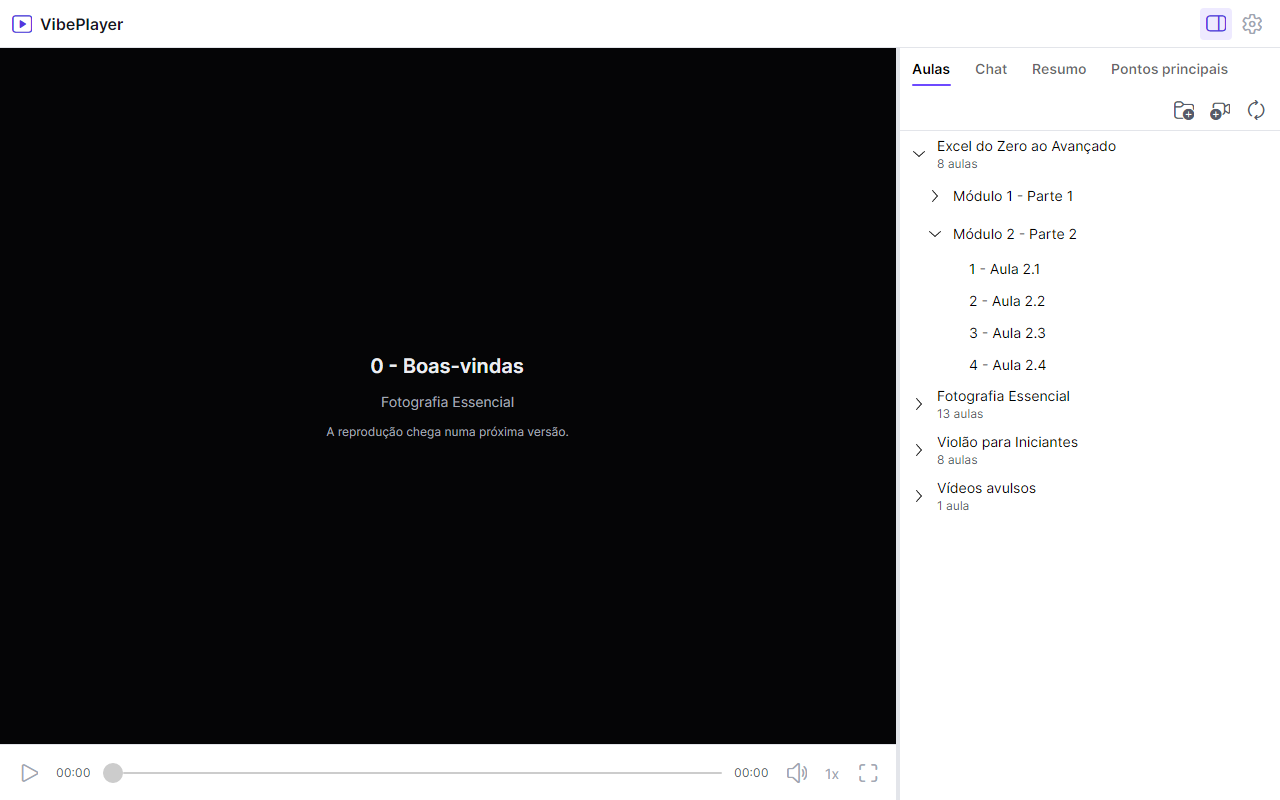
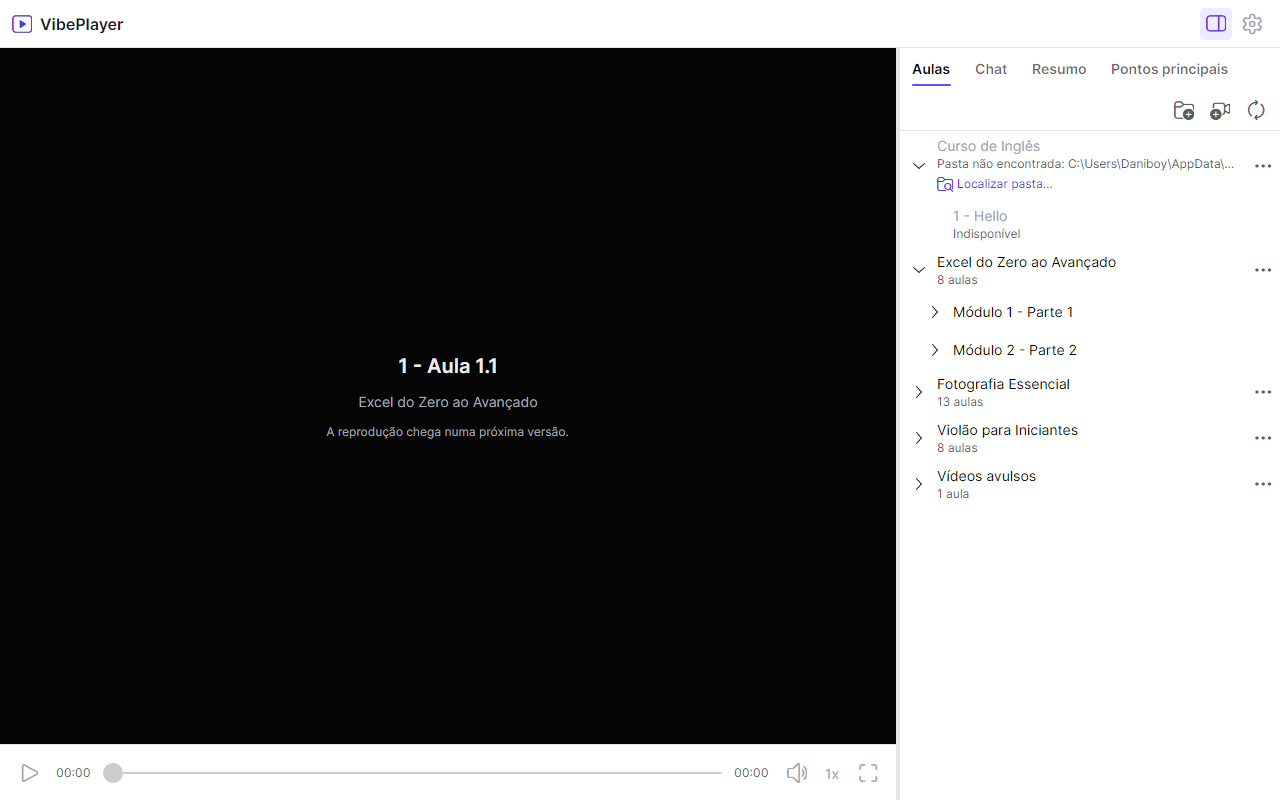
fix(biblioteca): ações do curso em toda a linha e mais à vista
- botão de ações (⋯) sempre visível nos itens que têm ações
- clique direito abre o menu em qualquer ponto da linha, não só sobre o texto
- "Localizar pasta…" aparece direto na linha do curso cuja pasta sumiu
- árvore sem rolagem horizontal: nomes longos são cortados em vez de esconder o botão

Changed region(s): [[0.7188, 0.1562, 0.9688, 0.625], [0.2812, 0.5, 0.4062, 0.5312], [0.2812, 0.4375, 0.4062, 0.4688]]

diff --git a/tests/VibePlayer.E2ETests/LibraryViewTests.cs b/tests/VibePlayer.E2ETests/LibraryViewTests.cs
@@ -166,6 +166,77 @@ public sealed class LibraryViewTests : IDisposable
         window.Close();
     }
 
+    [AvaloniaFact]
+    public async Task CliqueDireito_EmQualquerPontoDaLinha_AbreAcoesDoCurso()
+    {
+        _sample.AddVideo("Curso/M/a.mp4");
+        var window = await OpenWithFolderAsync("Curso");
+        var view = window.GetVisualDescendants().OfType<LibraryView>().Single();
+        var row = window.GetVisualDescendants().OfType<TreeViewItem>().First();
+
+        // Pontos sem texto: logo depois do recuo (antes do título) e perto da borda direita.
+        foreach (var x in new[] { 4.0, row.Bounds.Width - 48 })
+        {
+            RightClick(window, row, new Point(x, 12));
+
+            var menu = view.OpenActionsMenu.ShouldNotBeNull($"Clique direito em x={x} não abriu o menu");
+            menu.Items.OfType<MenuItem>().Select(i => i.Header).ShouldBe([Strings.Library_Remove]);
+            menu.Close();
+        }
+
+        window.Close();
+    }
+
+    [AvaloniaFact]
+    public async Task BotaoDeAcoes_AbreMenuEItemSemAcoesNaoAbreODoCurso()
+    {
+        _sample.AddVideo("Curso/M/a.mp4");
+        var window = await OpenWithFolderAsync("Curso");
+        var view = window.GetVisualDescendants().OfType<LibraryView>().Single();
+        var course = window.GetVisualDescendants().OfType<TreeViewItem>().First();
+
+        var actions = course.GetVisualDescendants().OfType<Button>().First(b => b.Classes.Contains("rowActions"));
+        actions.IsEffectivelyVisible.ShouldBeTrue();
+        window.Click(actions);
+        view.OpenActionsMenu.ShouldNotBeNull().Items.OfType<MenuItem>().Select(i => i.Header).ShouldBe([Strings.Library_Remove]);
+        view.OpenActionsMenu!.Close();
+
+        // Módulo não tem ações: o clique direito nele não pode abrir o menu do curso.
+        course.IsExpanded = true;
+        WindowTestExtensions.Settle();
+        var module = course.GetVisualDescendants().OfType<TreeViewItem>().First();
+        RightClick(window, module, new Point(module.Bounds.Width - 48, 12));
+        view.OpenActionsMenu.ShouldBeNull();
+        window.Close();
+    }
+
+    [AvaloniaFact]
+    public async Task PastaIndisponivel_MostraLocalizarPastaNaLinha()
+    {
+        _sample.AddVideo("HD/Curso/a.mp4");
+        var window = await OpenWithFolderAsync("HD/Curso");
+        Directory.Delete(_sample.PathOf("HD"), recursive: true);
+        await window.ViewModel().Library.RefreshCommand.ExecuteAsync(null);
+        WindowTestExtensions.Settle();
+
+        var link = window.GetVisualDescendants().OfType<Button>().Single(b => b.Classes.Contains("link"));
+        link.IsEffectivelyVisible.ShouldBeTrue();
+        window.ShowsText(Strings.Library_Locate).ShouldBeTrue();
+
+        _picker.Folders.Enqueue(null);
+        window.Click(link);
+        await WaitUntilAsync(() => _picker.Folders.Count == 0);
+        window.Close();
+    }
+
+    private static void RightClick(MainWindow window, Control target, Point point)
+    {
+        var position = target.TranslatePoint(point, window)!.Value;
+        window.MouseDown(position, MouseButton.Right);
+        window.MouseUp(position, MouseButton.Right);
+        WindowTestExtensions.Settle();
+    }
+
     private async Task<MainWindow> OpenAsync()
     {
         _services = _data.BuildServices(overrides =>

diff --git a/src/VibePlayer.App/Views/Library/LibraryView.axaml.cs b/src/VibePlayer.App/Views/Library/LibraryView.axaml.cs
@@ -1,11 +1,86 @@
+using Avalonia;
 using Avalonia.Controls;
+using Avalonia.Input;
+using Avalonia.Interactivity;
+using Avalonia.VisualTree;
+using FluentIcons.Avalonia;
+using FluentIcons.Common;
+using VibePlayer.App.Resources;
+using VibePlayer.App.ViewModels;
 
 namespace VibePlayer.App.Views.Library;
 
 public partial class LibraryView : UserControl
 {
+    private ContextMenu? _actionsMenu;
+
     public LibraryView()
     {
         InitializeComponent();
+        Tree.ContextRequested += OnTreeContextRequested;
     }
+
+    /// <summary>Menu de ações aberto agora, se houver. Exposto para os testes E2E conferirem o conteúdo.</summary>
+    public ContextMenu? OpenActionsMenu => _actionsMenu is { IsOpen: true } ? _actionsMenu : null;
+
+    /// <remarks>
+    /// O menu é tratado no TreeView, e não preso ao conteúdo de cada item, por dois motivos:
+    /// <list type="bullet">
+    /// <item>o clique direito vale para a linha inteira do item (recuo, seta de expandir e o espaço
+    /// até a borda), não só para onde há texto;</item>
+    /// <item>o evento é sempre marcado como tratado: clicar numa aula sem ações não pode abrir o
+    /// menu do curso em que ela está (o evento subiria até a linha do curso).</item>
+    /// </list>
+    /// Também atende ao teclado (tecla Menu ou Shift+F10) no item com foco.
+    /// </remarks>
+    private void OnTreeContextRequested(object? sender, ContextRequestedEventArgs e)
+    {
+        var row = (e.Source as Visual)?.FindAncestorOfType<TreeViewItem>(includeSelf: true);
+        if (row?.DataContext is LibraryItemViewModel { HasActions: true } item)
+        {
+            OpenActions(row, item, fromButton: false);
+        }
+
+        e.Handled = true;
+    }
+
+    private void OnActionsButtonClick(object? sender, RoutedEventArgs e)
+    {
+        if (sender is Button { DataContext: LibraryItemViewModel item } button)
+        {
+            OpenActions(button, item, fromButton: true);
+        }
+    }
+
+    private void OpenActions(Control target, LibraryItemViewModel item, bool fromButton)
+    {
+        var library = (LibraryViewModel)DataContext!;
+        var menu = new ContextMenu
+        {
+            // Pelo botão "⋯", o menu abre logo abaixo dele; pelo clique direito, onde o ponteiro está.
+            Placement = fromButton ? PlacementMode.BottomEdgeAlignedRight : PlacementMode.Pointer,
+        };
+
+        if (item.CanLocate)
+        {
+            menu.Items.Add(MenuItem(Strings.Library_Locate, Symbol.FolderSearch, library.LocateCommand, item));
+        }
+
+        if (item.CanRemove)
+        {
+            menu.Items.Add(MenuItem(Strings.Library_Remove, Symbol.Delete, library.RemoveCommand, item));
+        }
+
+        _actionsMenu?.Close();
+        _actionsMenu = menu;
+        menu.Open(target);
+    }
+
+    private static MenuItem MenuItem(string header, Symbol icon, System.Windows.Input.ICommand command, LibraryItemViewModel item) => new()
+    {
+        Header = header,
+        Icon = new SymbolIcon { Symbol = icon },
+        Command = command,
+        CommandParameter = item,
+    };
 }

diff --git a/src/VibePlayer.App/ViewModels/LibraryItemViewModels.cs b/src/VibePlayer.App/ViewModels/LibraryItemViewModels.cs
@@ -26,6 +26,9 @@ public abstract class LibraryItemViewModel : ViewModelBase
 
     public bool HasActions => CanRemove || CanLocate;
 
+    /// <summary>Nome do botão "⋯" (leitores de tela e dica): "Ações de “Curso X”".</summary>
+    public string ActionsName => string.Format(CultureInfo.CurrentCulture, Strings.Library_ItemActionsFor, Title);
+
     /// <summary>Nome lido pelos leitores de tela: título e, se houver, a segunda linha.</summary>
     public string AccessibleName => Caption is null ? Title : $"{Title}, {Caption}";
 }

diff --git a/specs/0005-biblioteca/tasks.md b/specs/0005-biblioteca/tasks.md
@@ -49,6 +49,12 @@ A biblioteca de exemplo é gerada pelo próprio teste em pasta temporária (arqu
 
 - **Tabela `RemovedCourses`:** remover um curso de uma "pasta de cursos" precisa ser lembrado; sem isso, a próxima atualização encontraria a subpasta e traria o curso de volta. Remover o último curso de uma pasta tira a pasta inteira da biblioteca.
 - **`IFolderPicker` virou `IFilePicker`** (pasta e vídeos), e os diálogos ficam atrás de `IDialogService` (`WindowDialogService` em produção, respostas roteirizadas nos E2E).
+- **Ações dos itens mais à vista** (pedido do mantenedor na revisão do PR):
+  - botão "⋯" sempre visível em cada item com ações;
+  - clique direito em qualquer ponto da linha, inclusive no recuo e no espaço à direita do texto;
+  - "Localizar pasta…" como link direto na linha do curso cuja pasta sumiu.
+
+  O menu é tratado no `TreeView`, e não preso ao conteúdo do item, e a árvore não tem mais rolagem horizontal, para nomes longos serem cortados em vez de empurrar o botão para fora. Testes: `LibraryViewTests.CliqueDireito_EmQualquerPontoDaLinha_AbreAcoesDoCurso`, `BotaoDeAcoes_AbreMenuEItemSemAcoesNaoAbreODoCurso` e `PastaIndisponivel_MostraLocalizarPastaNaLinha`.
 - **Aula indisponível recebe foco e menu**, em vez de ficar desabilitada na árvore, para dar para remover um vídeo avulso que sumiu. Ela só não vira a aula atual (CA10).
 - **Ordem dos cursos:** natural pelo título, com "Vídeos avulsos" por último. A coluna `Position` dos cursos guarda a ordem do scan, mas a árvore não a usa.
 - **Ids com `ValueGeneratedNever`:** gerados no código (Guid v7). Sem isso, o EF tentava `UPDATE` em entidades novas encontradas por navegação.

diff --git a/DESIGN.md b/DESIGN.md
@@ -150,6 +150,8 @@ Elevação é feita com **superfície** (`SurfaceRaised`) e borda sutil, não co
 | Barra de ações de painel | `Border.toolbar` | — | Botões de ícone alinhados à direita, borda inferior sutil |
 | Árvore da biblioteca | `TreeView` + `StackPanel.libraryItem` | — | Título `body` e, quando houver, segunda linha `caption secondary` (contagem de aulas, "Indisponível", "Pasta não encontrada") |
 | Item indisponível | `TextBlock.unavailable` | — | Título em `TextDisabled`; continua com foco e menu (para remover ou localizar), mas não vira a aula atual |
+| Ações de uma linha | `Button.rowActions` ("⋯") + menu | 32 × 32, à direita da linha | Sempre visível em itens com ações, para quem não conhece o clique direito. O clique direito e a tecla Menu abrem o mesmo menu em qualquer ponto da linha. Itens de menu com ícone (`Delete` para remover, `FolderSearch` para localizar) |
+| Link de ação | `Button.link` | sem fundo nem borda | Texto `AccentText`, sublinhado no hover. Para a saída óbvia de um estado (ex.: "Localizar pasta…" numa pasta não encontrada) |
 | Selo | `Border.badge` | — | Texto `caption` sobre `AccentSubtle` (ex.: "sugerido") |
 | Caixa de prévia | `Border.previewBox` | raio 8 | Fundo `AppBackground` com borda sutil, dentro de diálogos |
 | Diálogo | `Window` modal | largura 440–520, altura pelo conteúdo | Título `subtitle`, ações à direita (Cancelar, depois a principal). Confirmações destrutivas têm Cancelar como padrão do Enter |
